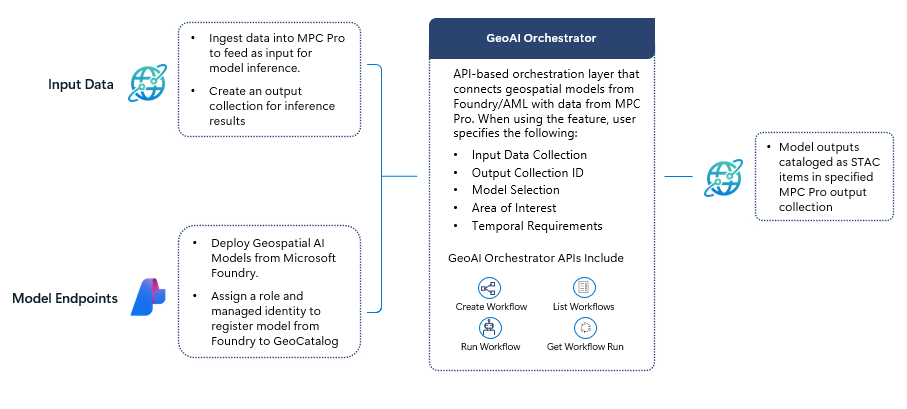
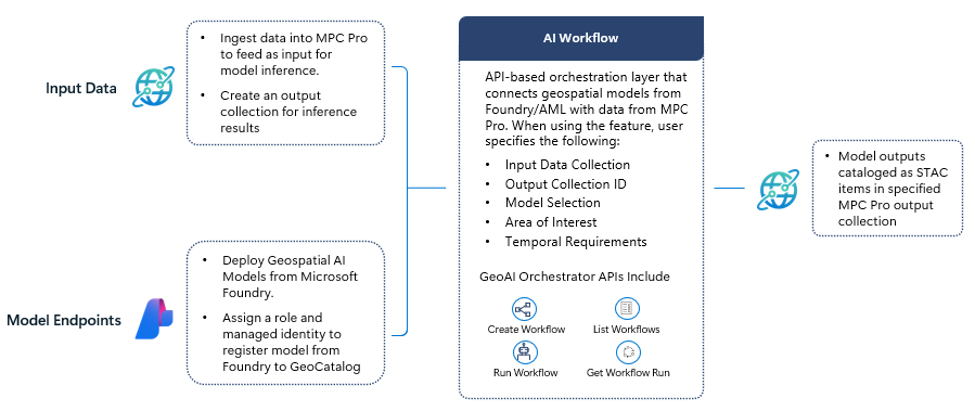
Updated name to AI Workflow

diff --git a/private_preview_features/ai_workflow/ai-workflow-overview.md b/private_preview_features/ai_workflow/ai-workflow-overview.md
@@ -1,34 +1,34 @@
 ---
-title: GeoAI Orchestrator in Microsoft Planetary Computer Pro
-description: Learn about GeoAI Orchestrator, its key benefits, supported geospatial AI models, and private preview pricing.
+title: AI Workflow in Microsoft Planetary Computer Pro
+description: Learn about AI Workflow, its key benefits, supported geospatial AI models, and private preview pricing.
 author: aloverro
 ms.author: adamloverro
 ms.service: planetary-computer-pro
 ms.topic: overview
 ms.date: 10/29/2026
-# customer intent: As a geospatial analyst or developer, I want to understand GeoAI Orchestrator so that I can run repeatable inference on GeoCatalog data.
+# customer intent: As a geospatial analyst or developer, I want to understand AI Workflow so that I can run repeatable inference on GeoCatalog data.
 ---
 
-# GeoAI Orchestrator in Microsoft Planetary Computer Pro
+# AI Workflow in Microsoft Planetary Computer Pro
 
-GeoAI Orchestrator is an orchestration feature in Microsoft Planetary Computer Pro that enables you to run inference with geospatial AI models from Microsoft Foundry or Azure Machine Learning with data stored in your GeoCatalog.
+AI Workflow is an orchestration feature in Microsoft Planetary Computer Pro that enables you to run inference with geospatial AI models from Microsoft Foundry or Azure Machine Learning with data stored in your GeoCatalog.
 
 Instead of manually coordinating data preparation, model execution, and output management through building custom inference pipelines, you can use a repeatable, cloud-based workflow to transform geospatial data into insights and inference results.
 
-GeoAI Orchestrator supports selected geospatial AI models hosted in Microsoft Foundry and Azure Machine Learning.
+AI Workflow supports selected geospatial AI models hosted in Microsoft Foundry and Azure Machine Learning.
 
 > [!IMPORTANT]
-> GeoAI Orchestrator is currently in invite-only private preview. Contact the Microsoft Planetary Computer team to enable it for your GeoCatalog. Features and capabilities are subject to change.
+> AI Workflow is currently in invite-only private preview. Contact the Microsoft Planetary Computer team to enable it for your GeoCatalog. Features and capabilities are subject to change.
 
 ## Key benefits
 
-GeoAI Orchestrator streamlines GeoAI inference into a single workflow, so you can focus on insights rather than model and data orchestration.
+AI Workflow streamlines GeoAI inference into a single workflow, so you can focus on insights rather than model and data orchestration.
 
-![Reference architecture for GeoAI Orchestrator.](./media/image1.png)
+![Reference architecture for AI Workflow.](./media/image1.png)
 
 *Figure 1 - Reference architecture.*
 
-Use GeoAI Orchestrator to:
+Use AI Workflow to:
 
 - **Connect data and models** - Connect geospatial data, models, and outputs through simple API calls.
 - **Simplify operations** - Operationalize AI models without writing custom orchestration code.
@@ -38,7 +38,7 @@ Use GeoAI Orchestrator to:
 
 ## Supported models
 
-GeoAI Orchestrator supports the following models deployed through Microsoft Foundry:
+AI Workflow supports the following models deployed through Microsoft Foundry:
 
 | Model | Model catalog ID |
 | --- | --- |
@@ -51,7 +51,7 @@ Review the [input data requirements](./input-data-requirements.md) and the assoc
 ## Pricing
 
 > [!NOTE]
-> GeoAI Orchestrator is available at no additional cost during private preview. Underlying Azure resource charges still apply.
+> AI Workflow is available at no additional cost during private preview. Underlying Azure resource charges still apply.
 
 You can incur charges for:
 
@@ -59,10 +59,10 @@ You can incur charges for:
 - GPU resources consumed by deployed AI models for inference.
 
 > [!IMPORTANT]
-> Avoid large-scale STAC ingestion while running GeoAI Orchestrator jobs during private preview. Concurrent ingestion and inference workloads can increase CPU utilization and affect workflow performance or execution times.
+> Avoid large-scale STAC ingestion while running AI Workflow jobs during private preview. Concurrent ingestion and inference workloads can increase CPU utilization and affect workflow performance or execution times.
 
 ## Reference Documents
 
-- [Get Started with GeoAI Orchestrator](./get-started-ai-workflow.md)
-- [Example of how GeoAI Orchestrator is Used](./use-ai-workflow.md)
+- [Get Started with AI Workflow](./get-started-ai-workflow.md)
+- [Example of how AI Workflow is Used](./use-ai-workflow.md)
 - [Input Data Requirements](./input-data-requirements.md)

diff --git a/private_preview_features/ai_workflow/get-started-ai-workflow.md b/private_preview_features/ai_workflow/get-started-ai-workflow.md
@@ -1,27 +1,27 @@
 ---
-title: Get started with GeoAI Orchestrator
+title: Get started with AI Workflow
 description: Learn how to deploy a supported model, configure managed identity access, register a model endpoint, and prepare output collections.
 author: aloverro
 ms.author: adamloverro
 ms.service: planetary-computer-pro
 ms.topic: how-to
 ms.date: 10/29/2026
-# customer intent: As a geospatial developer, I want to prepare my GeoCatalog and model endpoint so that I can run GeoAI Orchestrator workflows.
+# customer intent: As a geospatial developer, I want to prepare my GeoCatalog and model endpoint so that I can use AI Workflow.
 ---
 
-# Get started with GeoAI Orchestrator
+# Get started with AI Workflow
 
-Before you run a GeoAI Orchestrator, deploy a supported model, authorize your GeoCatalog to invoke the model through managed identity, register the endpoint, and create an output collection. This article walks you through that initial setup.
+Before you run an AI Workflow, deploy a supported model, authorize your GeoCatalog to invoke the model through managed identity, register the endpoint, and create an output collection. This article walks you through that initial setup.
 
-For a feature overview, supported models, and pricing, see [GeoAI Orchestrator in Microsoft Planetary Computer Pro](./ai-workflow-overview.md).
+For a feature overview, supported models, and pricing, see [AI Workflow in Microsoft Planetary Computer Pro](./ai-workflow-overview.md).
 
 > [!IMPORTANT]
-> GeoAI Orchestrator is currently in invite-only private preview. Contact the Microsoft Planetary Computer team to enable it for your GeoCatalog. Features and capabilities are subject to change.
+> AI Workflow is currently in invite-only private preview. Contact the Microsoft Planetary Computer team to enable it for your GeoCatalog. Features and capabilities are subject to change.
 
 ## Prerequisites
 
 - Microsoft Planetary Computer Pro deployed in your Azure subscription. See [Deploy a GeoCatalog resource](https://learn.microsoft.com/azure/planetary-computer/deploy-geocatalog-resource).
-- GeoAI Orchestrator feature enabled for your GeoCatalog. Please open an Azure support ticket to get this enabled.
+- AI Workflow feature enabled for your GeoCatalog. Please open an Azure support ticket to get this enabled.
 - Supported geospatial data ingested into a GeoCatalog collection. Review the [input data requirements](./input-data-requirements.md) and the selected model's card to confirm that your data meets its requirements.
 - Sufficient GPU quota and compute capacity for the selected model deployment.
 
@@ -72,7 +72,7 @@ Use a user-assigned managed identity so that GeoCatalog can securely access the 
 
 ### Step 3: Register the model endpoint
 
-During private preview, register the deployed model endpoint as an ingestion source so that GeoAI Orchestrator can invoke it with the managed identity.
+During private preview, register the deployed model endpoint as an ingestion source so that AI Workflow can invoke it with the managed identity.
 
 1. In your GeoCatalog, go to **Settings** and select **Create Ingestion Source**.
 
@@ -124,10 +124,10 @@ Create a destination collection for inference results.
 
 For additional guidance, see [Create STAC collections](https://learn.microsoft.com/en-us/azure/planetary-computer/create-stac-collection?tabs=restapi).
 
-Your GeoCatalog is now ready to use GeoAI Orchestrator. For the API definitions, see the [API specification](./openapi.json).
+Your GeoCatalog is now ready to use AI Workflow. For the API definitions, see the [API specification](./openapi.json).
 
 ## Related content
 
-- [GeoAI Orchestrator Overview](./ai-workflow-overview.md)
+- [AI Workflow Overview](./ai-workflow-overview.md)
 - [Example of How AI Orchestrator is Used](./use-ai-workflow.md)
 - [Input Data Requirements](./input-data-requirements.md)

diff --git a/private_preview_features/ai_workflow/use-ai-workflow.md b/private_preview_features/ai_workflow/use-ai-workflow.md
@@ -1,22 +1,22 @@
 ---
-title: Example of How to Use GeoAI Orchestrator 
+title: Example of How to Use AI Workflow
 description: Learn how to run MARS on NAIP imagery for two periods, monitor workflow runs, and compare building predictions in GeoCatalog.
 author: aloverro
 ms.author: adamloverro
 ms.service: planetary-computer-pro
 ms.topic: how-to
 ms.date: 10/29/2026
-# customer intent: As a geospatial developer, I want to run GeoAI Orchestrator on imagery from two periods so that I can compare residential development.
+# customer intent: As a geospatial developer, I want to run AI Workflow on imagery from two periods so that I can compare residential development.
 ---
 
-# Example of How to Use GeoAI Orchestrator
+# Example of How to Use AI Workflow
 
-This example walks through how GeoAI Orchestrator is used to extract building footprints from NAIP imagery of Union Park, Little Elm, Texas, for two periods: 2012-2014 and 2020-2022. Run the MARS Automated Feature Extraction model separately for each period over the same area, and then compare the results.
+This example walks through how AI Workflow is used to extract building footprints from NAIP imagery of Union Park, Little Elm, Texas, for two periods: 2012-2014 and 2020-2022. Run the MARS Automated Feature Extraction model separately for each period over the same area, and then compare the results.
 
 The input collection contains Union Park imagery acquired between 2012 and 2022. Each workflow filters that collection by acquisition date and selects the most recent matching item. For the input data in this example, the selected images are from July 2014 and July 2022.
 
 > [!IMPORTANT]
-> GeoAI Orchestrator is currently in invite-only private preview. Complete [Get started with GeoAI Orchestrator](./get-started-ai-workflow.md) before following this example. Features and capabilities are subject to change.
+> AI Workflow is currently in invite-only private preview. Complete [Get started with AI Workflow](./get-started-ai-workflow.md) before following this example. Features and capabilities are subject to change.
 
 ## Example settings
 
@@ -51,7 +51,7 @@ The example follows this API sequence:
 
 Confirm that:
 
-- GeoAI Orchestrator is enabled for your GeoCatalog.
+- AI Workflow is enabled for your GeoCatalog.
 - MARS is deployed through Microsoft Foundry.
 - The deployed endpoint is registered with GeoCatalog.
 - GeoCatalog is authorized to invoke the endpoint through a managed identity.
@@ -460,10 +460,9 @@ Cancellation is asynchronous. The state might initially remain `Running`, or the
 
 ## Reference documentation
 
-- [GeoAI Orchestrator overview](./ai-workflow-overview.md)
-- [Get started with GeoAI Orchestrator](./get-started-ai-workflow.md)
-- [GeoAI Orchestrator API specification](./openapi.json)
+- [AI Workflow overview](./ai-workflow-overview.md)
+- [Get started with AI Workflow](./get-started-ai-workflow.md)
+- [AI Workflow API specification](./openapi.json)
 - [Microsoft Planetary Computer Pro - Microsoft Azure](https://azure.microsoft.com/en-us/products/planetary-computer-pro)
 - [Microsoft Planetary Computer Pro - Microsoft Learn](https://learn.microsoft.com/en-us/azure/planetary-computer/)
-
 

diff --git a/private_preview_features/ai_workflow/input-data-requirements.md b/private_preview_features/ai_workflow/input-data-requirements.md
@@ -1,20 +1,20 @@
 ---
-title: Input data requirements for GeoAI Orchestrator supported models
-description: Learn the imagery, STAC metadata, video, and telemetry requirements for models supported by GeoAI Orchestrator.
+title: Input data requirements for AI Workflow supported models
+description: Learn the imagery, STAC metadata, video, and telemetry requirements for models supported by AI Workflow.
 author: aloverro
 ms.author: adamloverro
 ms.service: planetary-computer-pro
 ms.topic: concept-article
 ms.date: 10/29/2026
-# customer intent: As a geospatial developer, I want to understand model input requirements so that I can prepare data for GeoAI Orchestrator.
+# customer intent: As a geospatial developer, I want to understand model input requirements so that I can prepare data for AI Workflow.
 ---
 
-# Input data requirements for GeoAI Orchestrator supported models
+# Input data requirements for AI Workflow supported models
 
-This article describes the input data requirements for each model supported by GeoAI Orchestrator. Use these requirements when preparing data for ingestion into Microsoft Planetary Computer Pro.
+This article describes the input data requirements for each model supported by AI Workflow. Use these requirements when preparing data for ingestion into Microsoft Planetary Computer Pro.
 
 > [!IMPORTANT]
-> GeoAI Orchestrator is currently in invite-only private preview. Features and capabilities are subject to change.
+> AI Workflow is currently in invite-only private preview. Features and capabilities are subject to change.
 
 ## EO_OS Object Detection Model
 
@@ -142,6 +142,6 @@ An item is rejected immediately, without retry, under the following conditions:
 
 ## Related content
 
-- [GeoAI Orchestrator overview](./ai-workflow-overview.md)
-- [Get started with GeoAI Orchestrator](./get-started-ai-workflow.md)
-- [Use GeoAI Orchestrator to compare residential development](./use-ai-workflow.md)
+- [AI Workflow overview](./ai-workflow-overview.md)
+- [Get started with AI Workflow](./get-started-ai-workflow.md)
+- [Use AI Workflow to compare residential development](./use-ai-workflow.md)
